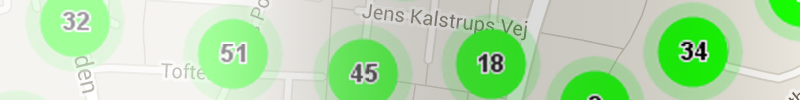
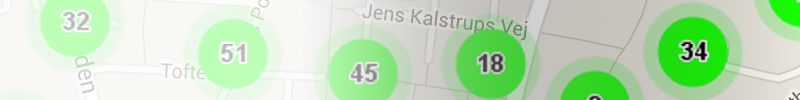
Clustering in class wizard

Changed region(s): [[0.25, 0.0, 0.5625, 1.0], [0.0312, 0.0, 0.1562, 0.66], [0.5625, 0.3, 0.625, 0.99]]

diff --git a/public/store.php b/public/store.php
@@ -75,7 +75,7 @@ include("html_header.php");
 
     }
     .map-thumbs b {
-        font-size: 16px;
+        font-size: 14px;
         line-height: 5px;
         padding-left: 5px;
         padding-top: 5px;
